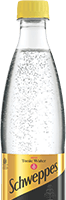
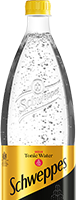
images replaced in menu

diff --git a/index.html b/index.html
@@ -40,7 +40,7 @@
                     <img src="./img/Schweppes-link-logo.png" alt="" class="es-nav__logo">
                     <img src="./img/link-arrow-black.png" alt="" class="es-nav__link es-nav__link--secondary">
                     <img src="./img/link-arrow-black.png" alt="" class="es-nav__link es-nav__link--mobile">
-                    <img src="./img/Schweppes-link-product.png" alt="fuzeTea" class="es-nav__product"> 
+                    <img src="./img/Schweppes-link-product.png" alt="Schweppes" class="es-nav__product"> 
                    
                 </a>
             </div>
@@ -63,7 +63,7 @@
                     <img src="./img/SmartWater-link-logo.png" alt="" class="es-nav__logo">
                     <img src="./img/link-arrow-navy.png" alt="" class="es-nav__link es-nav__link--secondary">
                     <img src="./img/link-arrow-navy.png" alt="" class="es-nav__link es-nav__link--mobile">
-                    <img src="./img/SmartWater-link-product.png" alt="smartwater" class="es-nav__product es-nav__product--secondary">
+                    <img src="./img/SmartWater-link-product.png" alt="Smart Water" class="es-nav__product es-nav__product--secondary">
                 </a>
 
                 <a href="#es-costacoffee" class="es-nav__single es-nav__single--thinner es-nav__single--costaCoffee">
